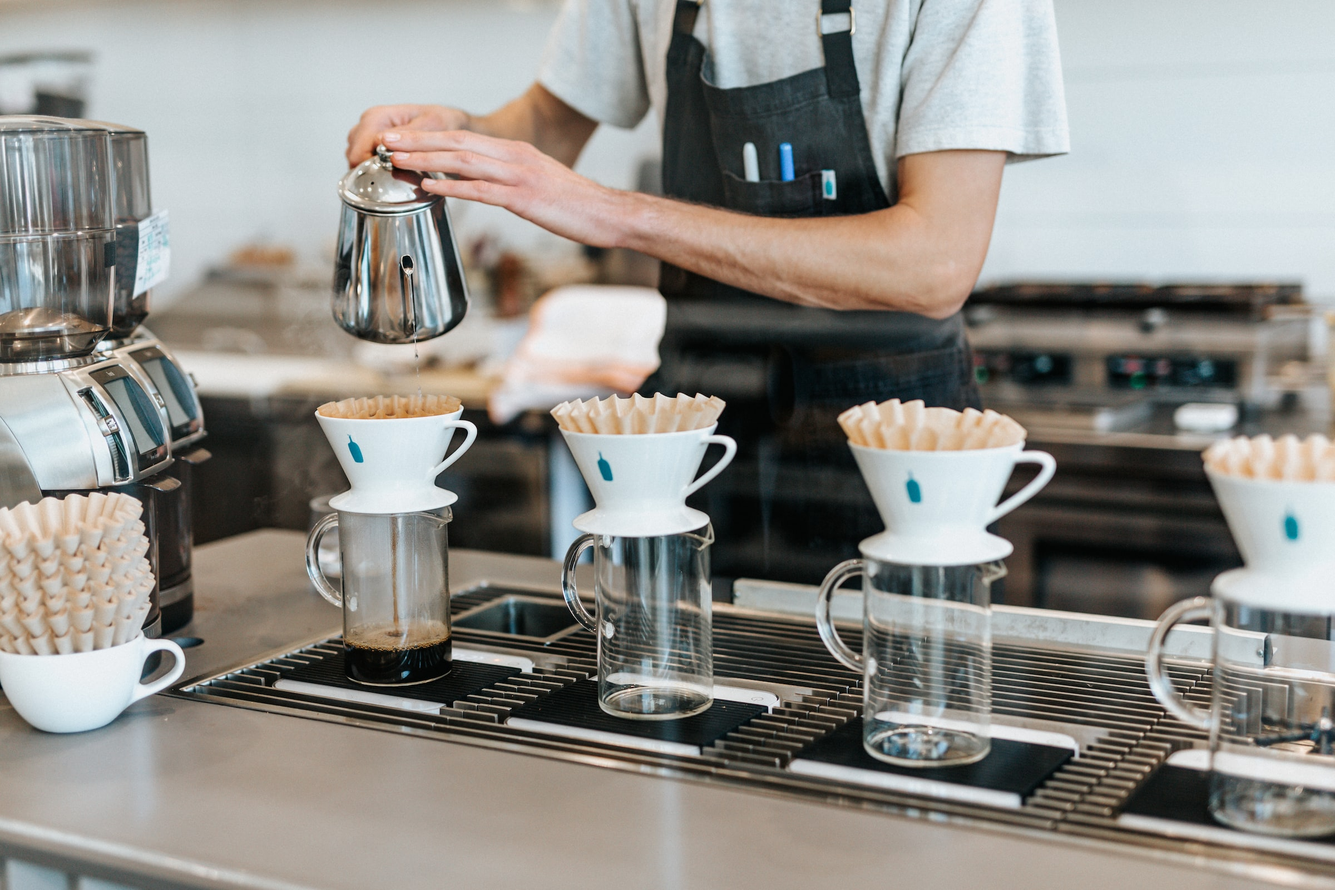
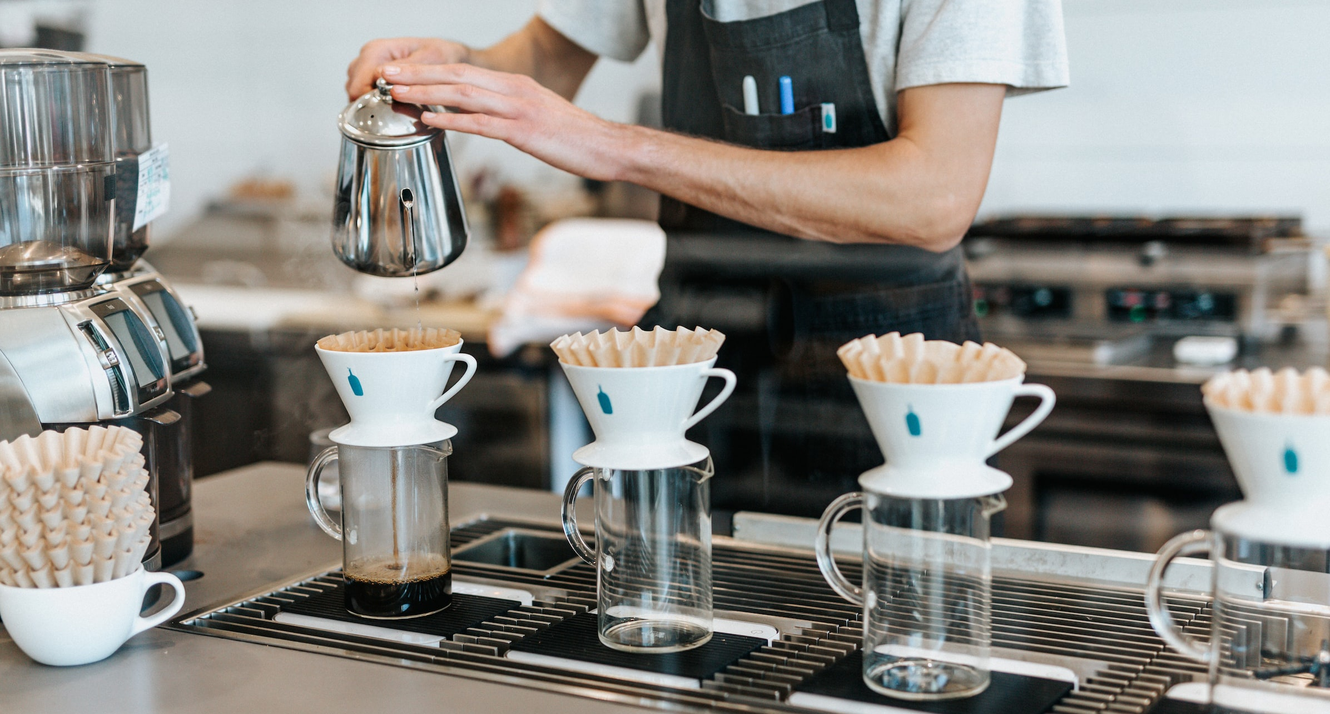
fixed main page image size and sign up text

diff --git a/src/components/mainPage/Navbar.jsx b/src/components/mainPage/Navbar.jsx
@@ -45,7 +45,7 @@ const Navbar = ({ user, quantity }) => {
               <li>
                 <Link className="link" to="/createuser">
                   <PersonAddAltTwoToneIcon fontSize={"large"} />
-                  <Button sx={{ textTransform: "none" }}> Signup</Button>
+                  <Button sx={{ textTransform: "none" }}> Sign Up</Button>
                 </Link>
               </li>
               {!user.id ? (

diff --git a/src/components/mainPage/MainPage.jsx b/src/components/mainPage/MainPage.jsx
@@ -6,9 +6,7 @@ import BusinessIcon from "@mui/icons-material/Business";
 
 const MainPage = ({ quantity, user }) => {
   return (
-    <body>
       <div>
-
       {/* Slider section */}
       <section className="slider">
         <div className="container">
@@ -43,7 +41,6 @@ const MainPage = ({ quantity, user }) => {
           </div>
         </div>
       </div>
-    </body>
   );
 };
 

diff --git a/src/components/CreateUser.jsx b/src/components/CreateUser.jsx
@@ -49,7 +49,7 @@ const CreateUserPage = () => {
           }}
         >
           <Typography variant="h2" padding={3} textAlign="center">
-            Singup
+            Sign Up
           </Typography>
           <TextField
             margin="normal"

diff --git a/src/components/mainPage/mainPageStyle.css b/src/components/mainPage/mainPageStyle.css
@@ -9,14 +9,15 @@ body {
   font-family: "PT Sans", sans-serif;
 }
 
+.container {
+  width: 80%;
+  margin: auto;
+}
+
 Link {
   color: black;
 }
 
-.container {
-  width: 90%;
-  margin: auto;
-}
 
 .list-unstyled {
   list-style: none;
